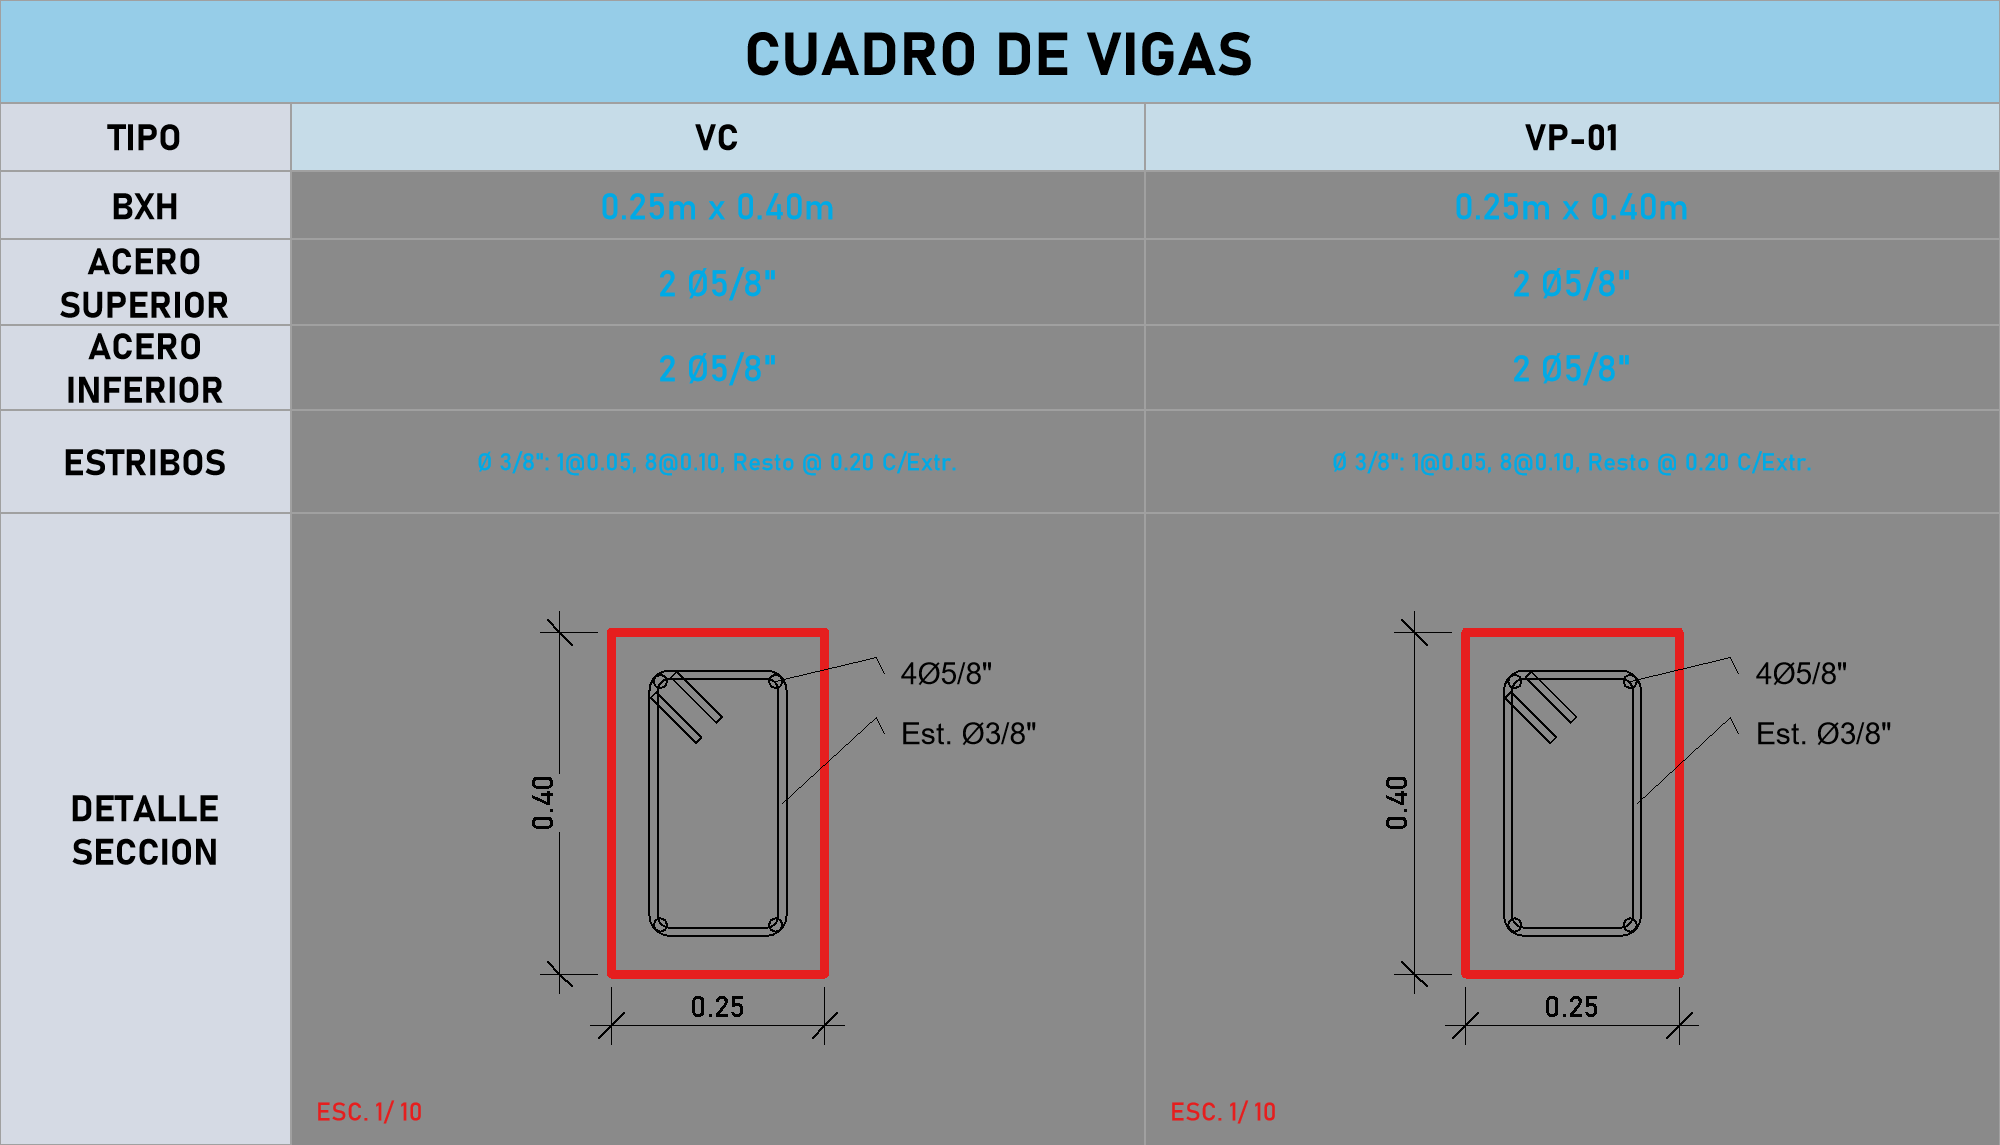
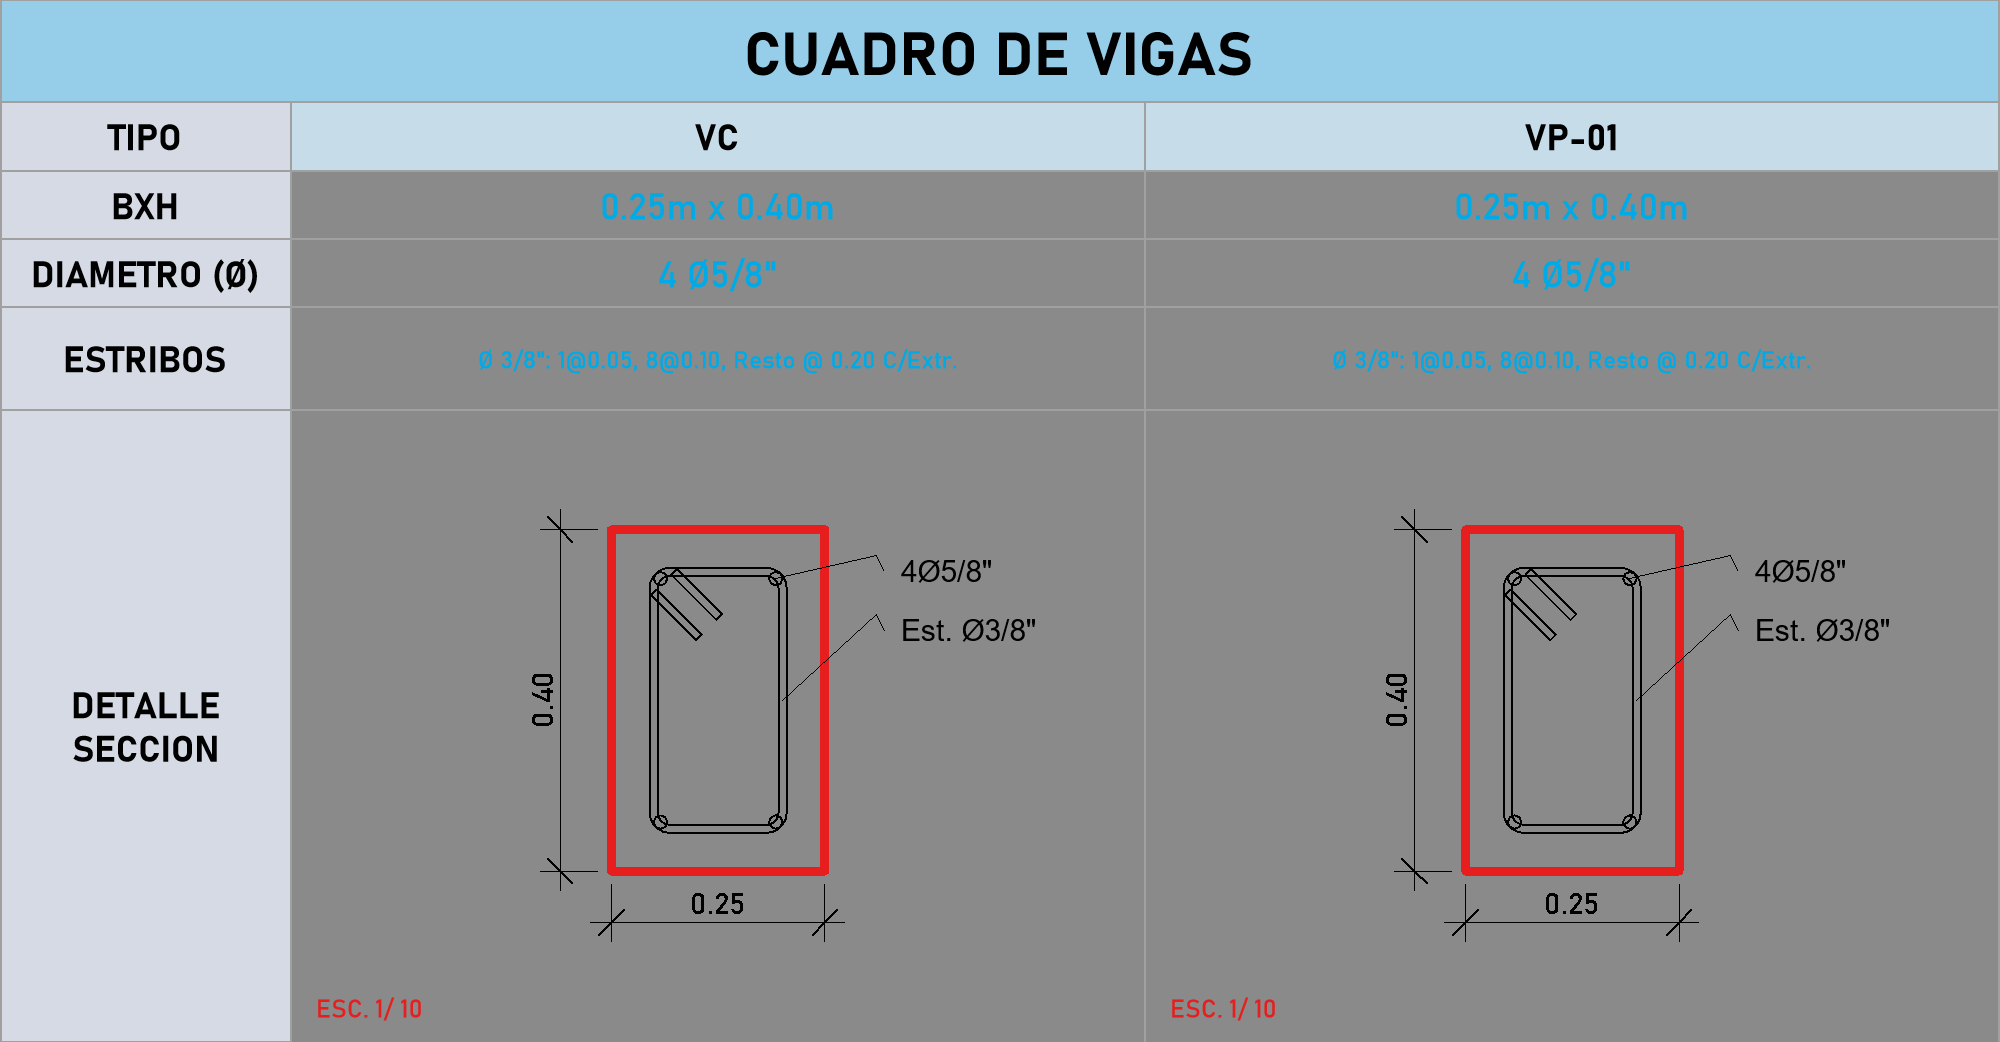
Cuadro Vigas: one DIAMETRO row (all the bars counted per diameter, '4 O5/8 + 2 O1/2'); Acero Viga: corner bars seated in the stirrups' round bends (tangent to their inner face, the type's bend diameter), no overlap

diff --git a/revit_mcp/rebar_beams.py b/revit_mcp/rebar_beams.py
@@ -470,6 +470,46 @@ def _counterclockwise(points):
     return points if area > 0 else points[:1] + points[:0:-1]  # the first corner kept first: the hooks
 
 
+def seat_in_bends(bars, loops, ds, bend_d):
+    """Corner bars seated in the stirrups' bends: a stirrup is bent round
+    (inner diameter bend_d), so a bar drawn in its sharp corner would overlap
+    the bend; it moves in along the corner's bisector until it touches the
+    bend's inner face (as built). `loops`: the stirrups' centerlines (m);
+    returns the bars [(x, y, key)]."""
+    import math as _m
+    r_in = bend_d / 2.0
+    R = r_in + ds / 2.0  # the bend's centerline radius
+    out = []
+    for x, y, key in bars:
+        rb_ = spec.BAR_DIAMETERS_MM[key] / 2000.0
+        nx, ny = x, y
+        for pts in loops:
+            n = len(pts)
+            for k in range(n):
+                c, a, b = pts[k], pts[k - 1], pts[(k + 1) % n]
+                ua = (a[0] - c[0], a[1] - c[1])
+                ub = (b[0] - c[0], b[1] - c[1])
+                la, lb = _m.hypot(*ua), _m.hypot(*ub)
+                if la < 1e-9 or lb < 1e-9:
+                    continue
+                ua, ub = (ua[0] / la, ua[1] / la), (ub[0] / lb, ub[1] / lb)
+                if abs(ua[0] * ub[0] + ua[1] * ub[1]) > 0.2:
+                    continue  # a right-angled corner only
+                # the bar's offsets from the corner along its two sides
+                ox = (x - c[0]) * ua[0] + (y - c[1]) * ua[1]
+                oy = (x - c[0]) * ub[0] + (y - c[1]) * ub[1]
+                sharp = ds / 2.0 + rb_  # where the sharp corner puts it
+                if not (0 < ox < 2.5 * sharp and 0 < oy < 2.5 * sharp):
+                    continue
+                need = R - (r_in - rb_) / _m.sqrt(2.0)  # tangent to the bend's inner face
+                if need > ox + 1e-5 or need > oy + 1e-5:
+                    gx, gy = max(ox, need), max(oy, need)
+                    nx = c[0] + ua[0] * gx + ub[0] * gy
+                    ny = c[1] + ua[1] * gx + ub[1] * gy
+        out.append((nx, ny, key))
+    return out
+
+
 def _share(line, created, rebar, key, kind, s_start, s_end):
     """List the bar in each element it runs along, with its share."""
     length = max(s_end - s_start, 1e-9)
@@ -578,7 +618,18 @@ def generate_line(doc, line, beam_spec, anchor, bar_types, hooks, shapes=None, s
     cover = beam_spec.cover_m
     bar_start, bar_end = start_face + cover, end_face - cover
     confinement = spec.confinement_length(beam_spec.edge.zones)
-    for x, y, key in design["bars"]:
+    # the corner bars seated in the stirrups' bends (no overlap with them)
+    seated = design["bars"]
+    for kind, (family, loops, ties) in groups.items():
+        closed = [pts for pts, is_open, _ in loops if not is_open]
+        if not closed:
+            continue
+        st_type = (rc.named_bar_type(doc, family.type_name, family.key)
+                   or rc._bar_type(bar_types, family.key, BEAM_MARK))
+        ds_m = spec.BAR_DIAMETERS_MM[family.key] / 1000.0
+        bend = getattr(st_type, "StirrupTieBendDiameter", 0.0) * FT or 4.0 * ds_m
+        seated = seat_in_bends(seated, closed, ds_m, bend)
+    for x, y, key in seated:
         d = spec.BAR_DIAMETERS_MM[key] / 1000.0
         top = y > 0
         # the hook legs: the beam's own at each end, else the table's, else 12 db

diff --git a/revit_mcp/beam_table.py b/revit_mcp/beam_table.py
@@ -1,8 +1,8 @@
 # -*- coding: utf-8 -*-
 """Cuadro de vigas: the beams' table, drawn like the columns' one
 (column_table: the same drawer, bands, section drawing, dimensions and
-labels) - a column per beam type: TIPO, BXH, ACERO SUPERIOR, ACERO
-INFERIOR, ESTRIBOS and DETALLE SECCION. Pure Python (paper mm)."""
+labels) - a column per beam type: TIPO, BXH,
+ESTRIBOS, DIAMETRO (all the bars counted per diameter) and DETALLE SECCION. Pure Python (paper mm)."""
 import column_table as ct
 
 TIPO_H = 8.0
@@ -23,8 +23,7 @@ def draw_table(d, items, title, scale, detail, diameters_mm):
     for w in widths[:-1]:
         xs.append(xs[-1] + w)
     total = ct.LABEL_W + sum(widths)
-    rows = [(u"TIPO", TIPO_H), (u"BXH", ROW_H), (u"ACERO\nSUPERIOR", ROW_H + 2.0),
-            (u"ACERO\nINFERIOR", ROW_H + 2.0), (u"ESTRIBOS", STIRRUP_H),
+    rows = [(u"TIPO", TIPO_H), (u"BXH", ROW_H), (u"DIAMETRO (Ø)", ROW_H), (u"ESTRIBOS", STIRRUP_H),
             (u"DETALLE\nSECCION", ct.table_section_height([it.polygon for it in items], scale))]
     ys = [ct.TITLE_H]
     for _, h in rows:
@@ -45,12 +44,11 @@ def draw_table(d, items, title, scale, detail, diameters_mm):
         mid = x + w / 2.0
         d.text(mid, ys[0] + TIPO_H / 2.0, item.mark, u"BOKI Cuadro Cabecera")
         d.text(mid, ys[1] + ROW_H / 2.0, ct.shape_text(item.polygon) if item.polygon else u"-", u"BOKI Cuadro 3mm")
-        top, bot = split_bars(item.design["bars"] if item.design else [])
-        d.text(mid, ys[2] + rows[2][1] / 2.0, ct.bars_text(top, diameters_mm) if top else u"-", u"BOKI Cuadro 3mm")
-        d.text(mid, ys[3] + rows[3][1] / 2.0, ct.bars_text(bot, diameters_mm) if bot else u"-", u"BOKI Cuadro 3mm")
+        bars = item.design["bars"] if item.design else []
+        d.text(mid, ys[2] + rows[2][1] / 2.0, ct.bars_text(bars, diameters_mm) if bars else u"-", u"BOKI Cuadro 3mm")
         diam = (item.cfg.get("EA_Estribo_Borde_Diametro") or u"").strip()
         dist = ct.spacing_text(item.cfg.get("EA_Estribo_Borde_Distribucion"))
-        d.text(mid, ys[4] + STIRRUP_H / 2.0, (u"Ø {}: {}".format(diam, dist) if dist else u"(sin estribos)"),
+        d.text(mid, ys[3] + STIRRUP_H / 2.0, (u"Ø {}: {}".format(diam, dist) if dist else u"(sin estribos)"),
                u"BOKI Cuadro 2mm")
-        ct.draw_section(d, item, x, x + w, ys[5], ys[6], scale, detail, diameters_mm)
+        ct.draw_section(d, item, x, x + w, ys[4], ys[5], scale, detail, diameters_mm)
     return total, bottom
